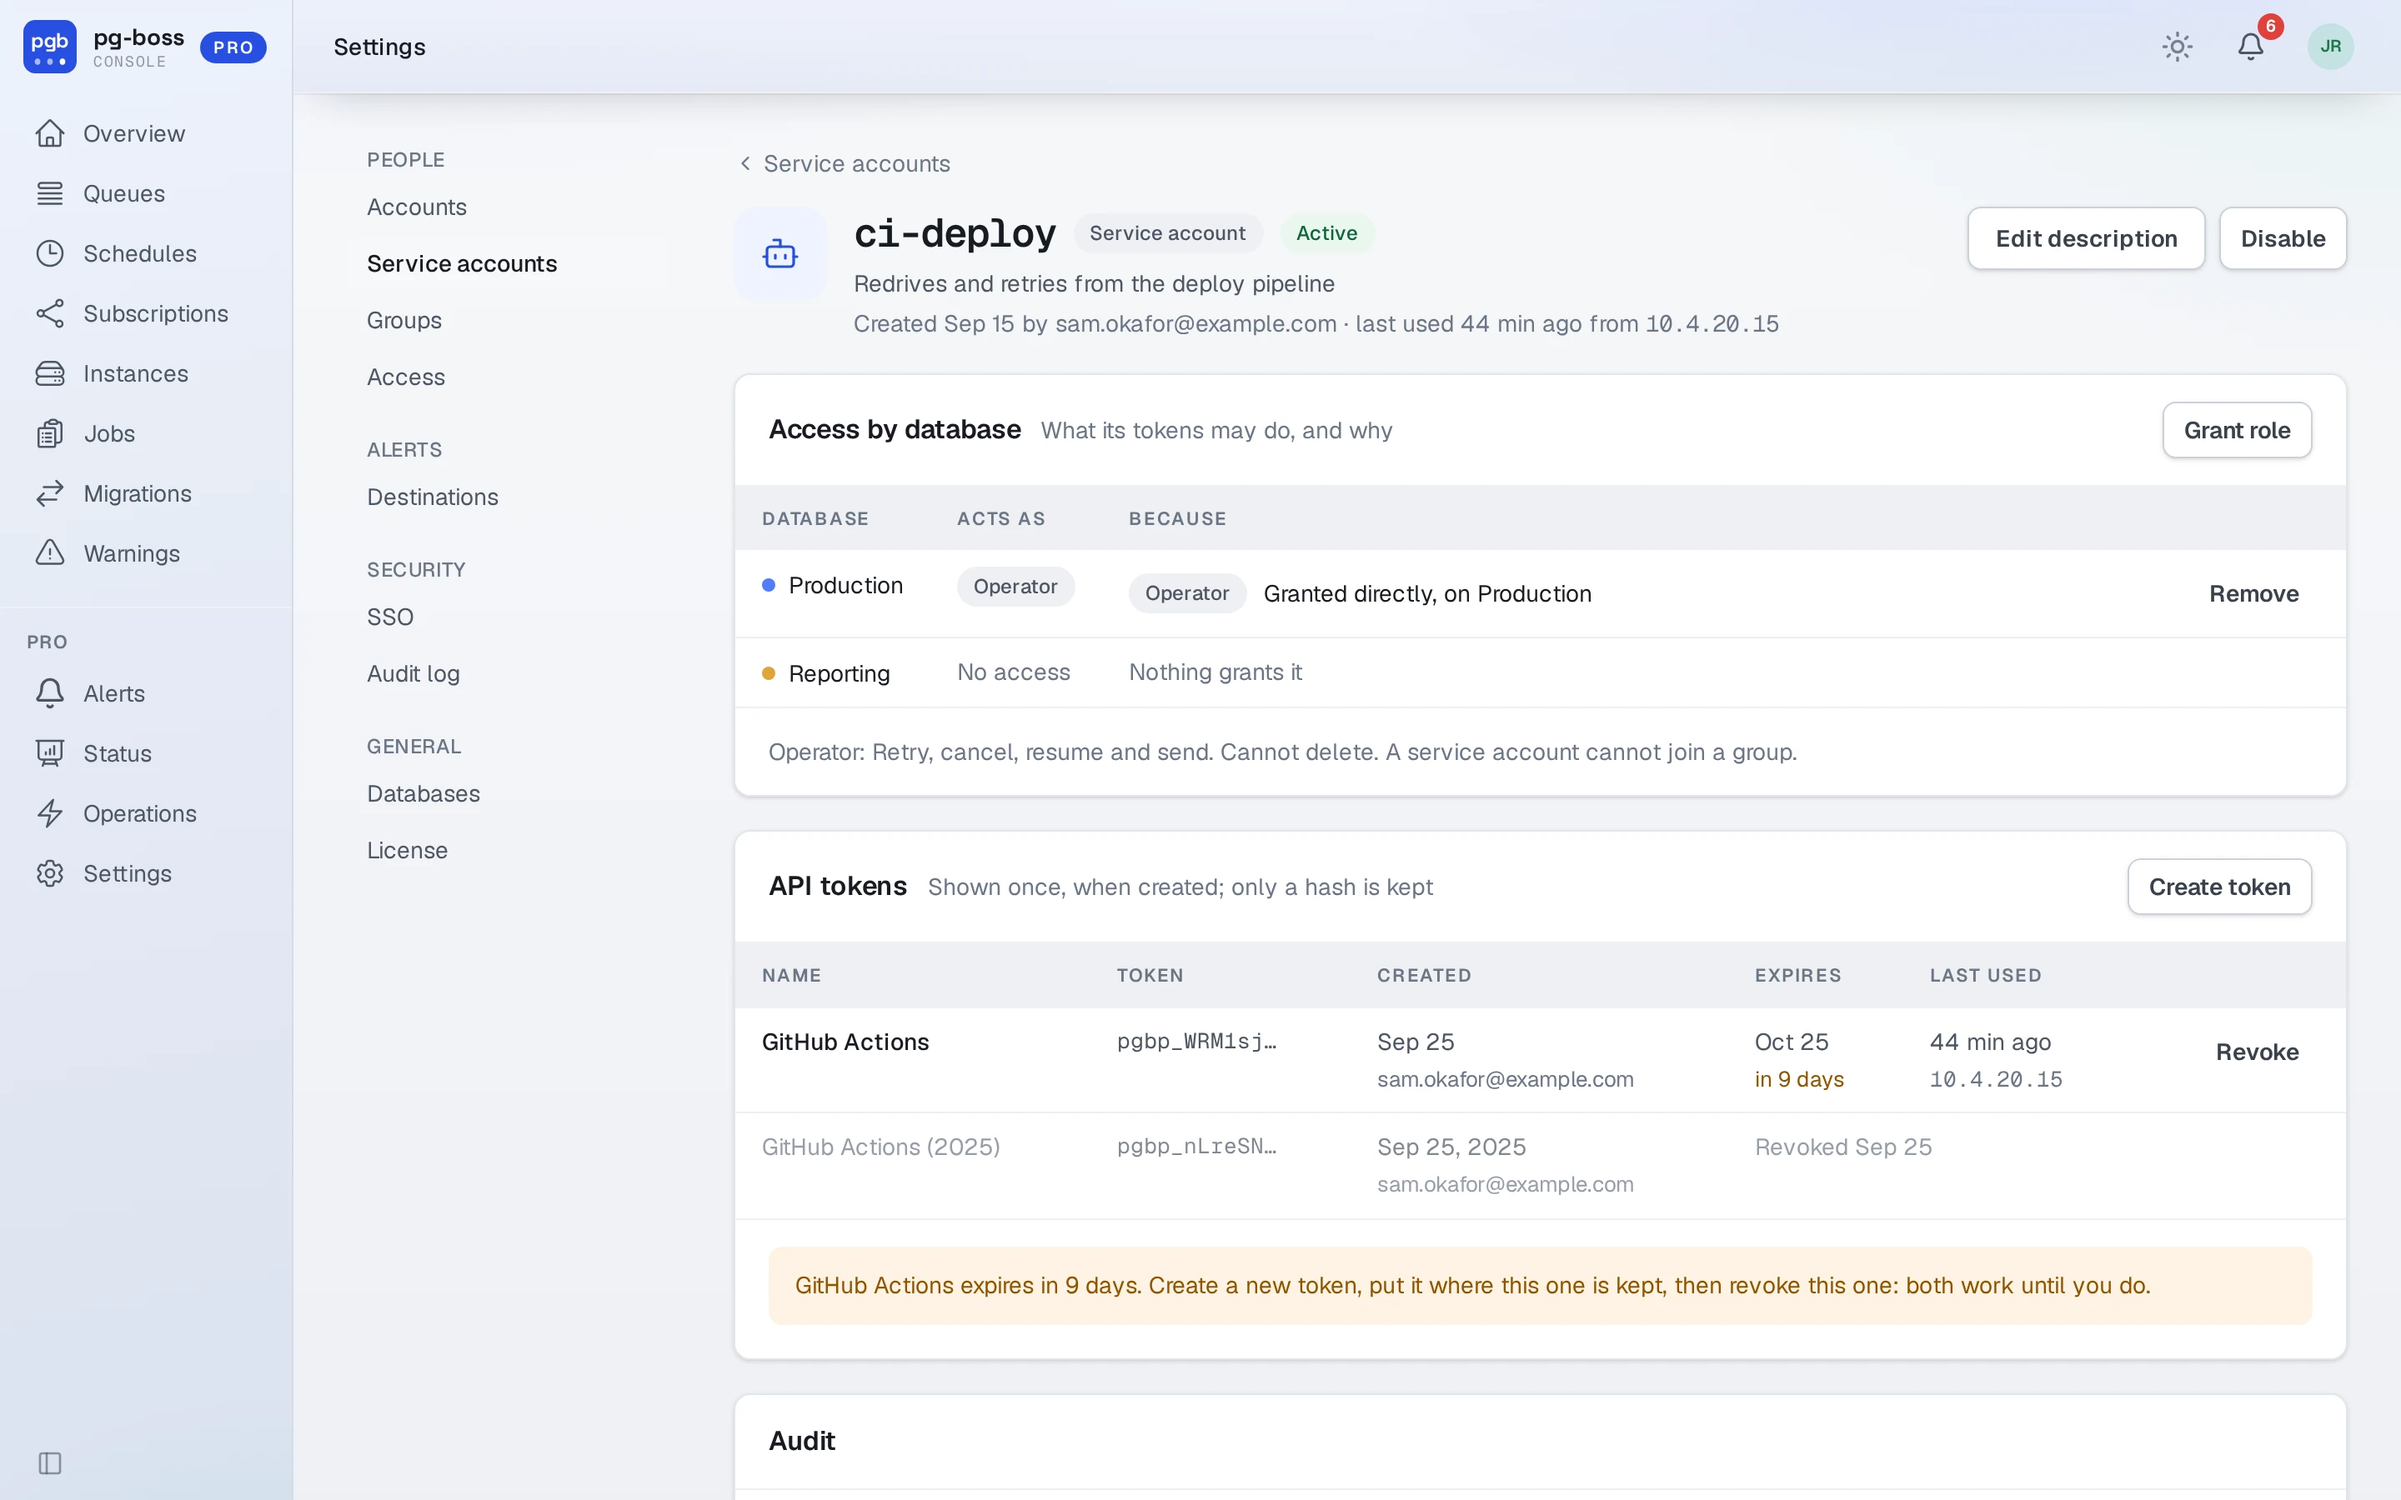
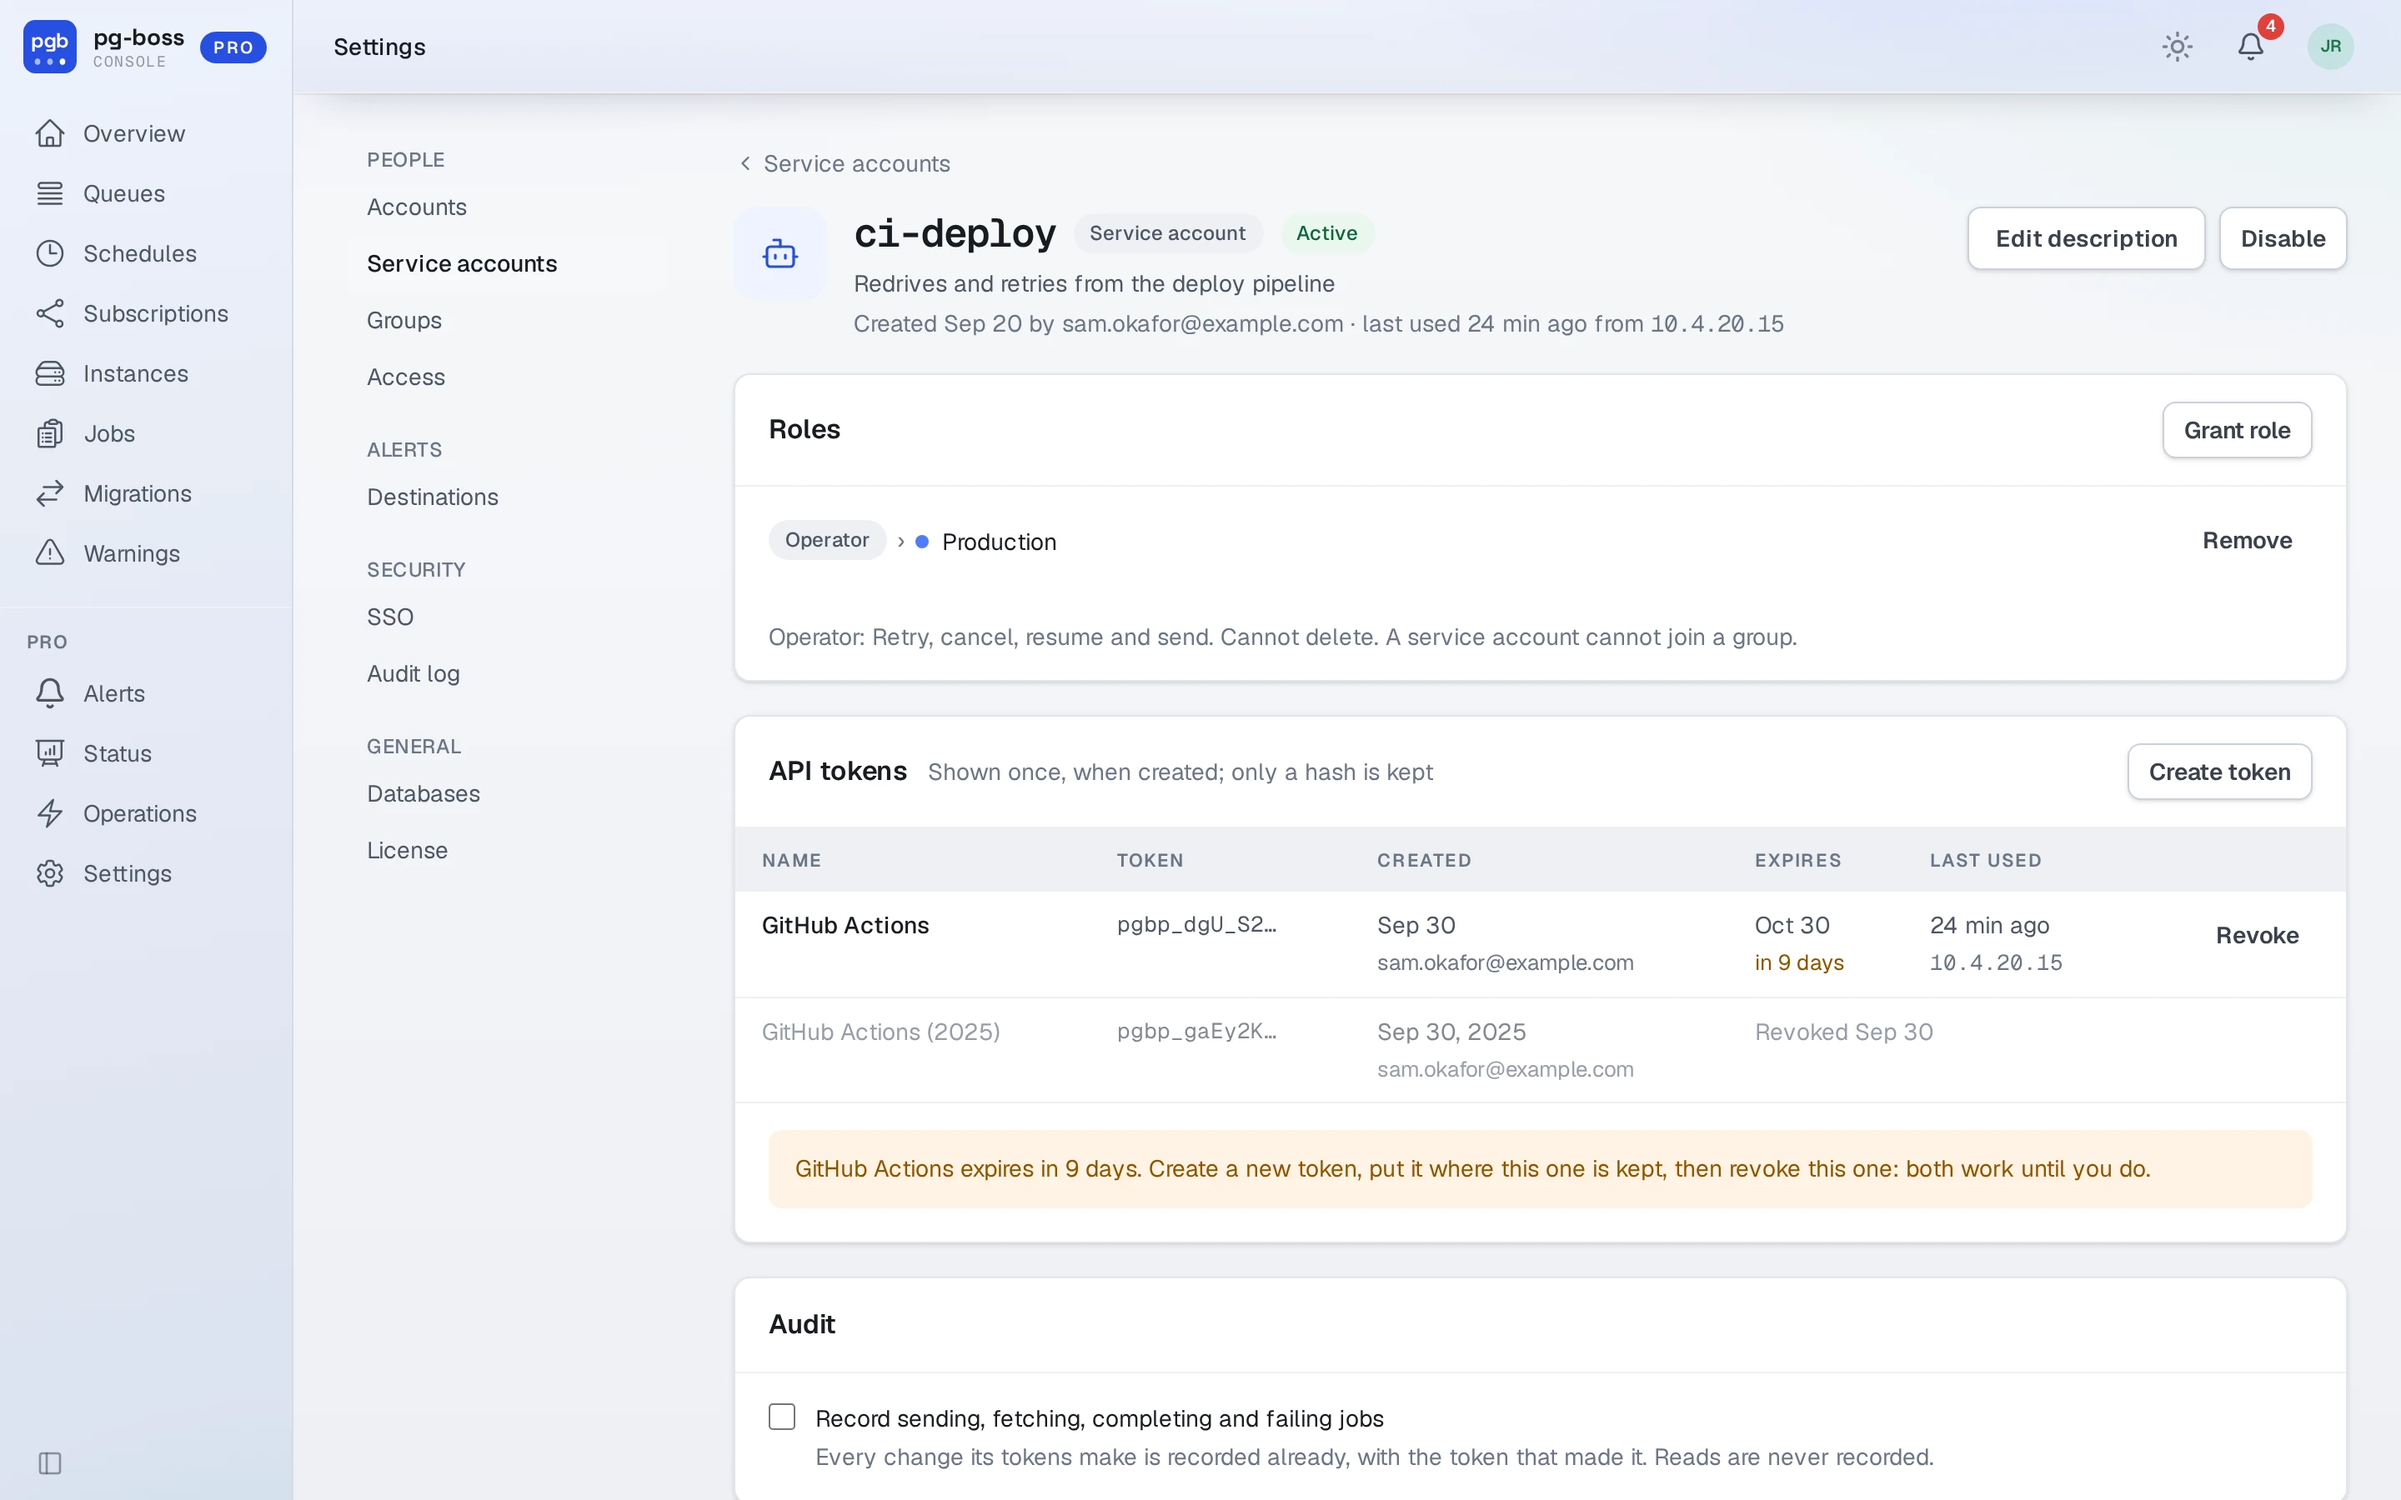
docs: Pro's people pages show an access line and direct roles

diff --git a/docs/pro/accounts.md b/docs/pro/accounts.md
@@ -23,11 +23,12 @@ scope.
 ![The accounts page](../images/pro/accounts.webp){.light-only}
 ![The accounts page](../images/pro/accounts-dark.webp){.dark-only}
 
-From there, add an account with a role. Its own page shows:
+From there, add an account with a role. Its own page says under its name what it can do on each
+database, from its direct roles and its groups together. [Access](./roles.md#access-page) shows which grant
+each comes from. The page also shows:
 
-- **Access by database**: the role in effect on each database, and every grant behind it, direct
-  or through a group. Remove a direct grant here, and change a group's grant on the group. When a
-  direct grant adds nothing a group already gives, the page says so.
+- **Direct roles**: the roles granted to the account itself. Grant and remove them here. When a
+  direct role adds nothing a group already gives, the page says so.
 - **Groups**: the groups it's in, with what each grants. Add it to a group or take it out here.
 - **Signing in**: set a password, or create an invitation link that lets the person choose one. It
   also lists the browsers the account is signed in on, with where from and when. **Sign out
@@ -64,7 +65,7 @@ live at `/pro/groups`. Give a group a role over a database (or over every
 database) and add users to it by pasting their addresses, and everyone in it has
 that role. Where two roles apply to the same database, the person may do everything
 either allows, as [Roles](./roles.md) explains. A group's page lists its
-members with the roles each holds on their own, says whether [SSO](./sso.md) maps a provider group
+members with each one's direct roles, says whether [SSO](./sso.md) maps a provider group
 to it, and shows its recent changes. Service accounts can't join a group.
 
 ![A group's page](../images/pro/group.webp){.light-only}

diff --git a/docs/pro/api-tokens.md b/docs/pro/api-tokens.md
@@ -18,8 +18,8 @@ used and from where, and marks a token that expires within 14 days.
 
 **Add service account** takes a name, what it is for, and a first role. Its page then shows:
 
-- **Access by database**: what its tokens may do on each database. Grant and remove its roles
-  here. A service account can't join a group.
+- **Roles**: what its tokens may do, and on which databases. Grant and remove them here. A service
+  account can't join a group.
 - **API tokens**: each with its name, its first characters, who created it, when it expires and
   when it was last used. **Create token** asks for a name and an expiry and shows the token once, to
   copy. **Revoke** stops one at once.
